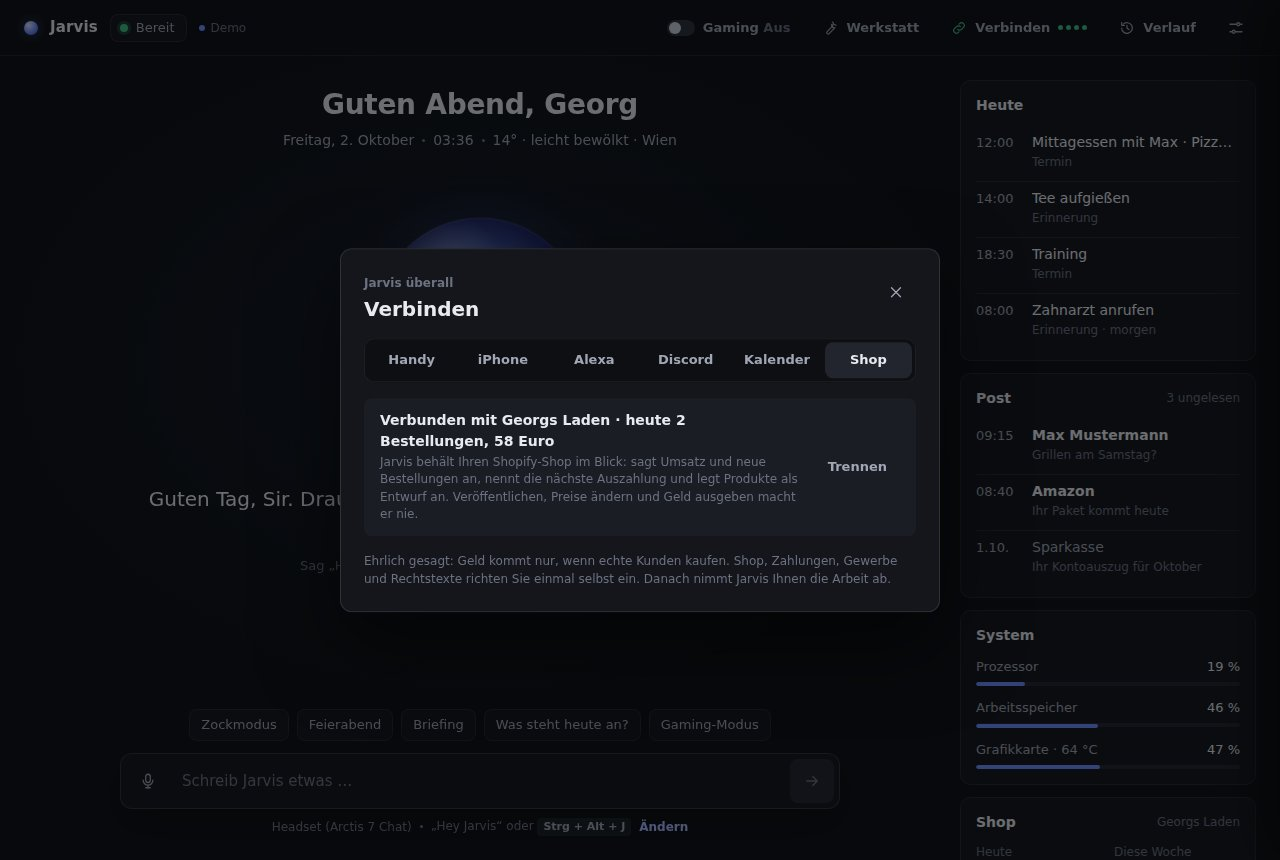
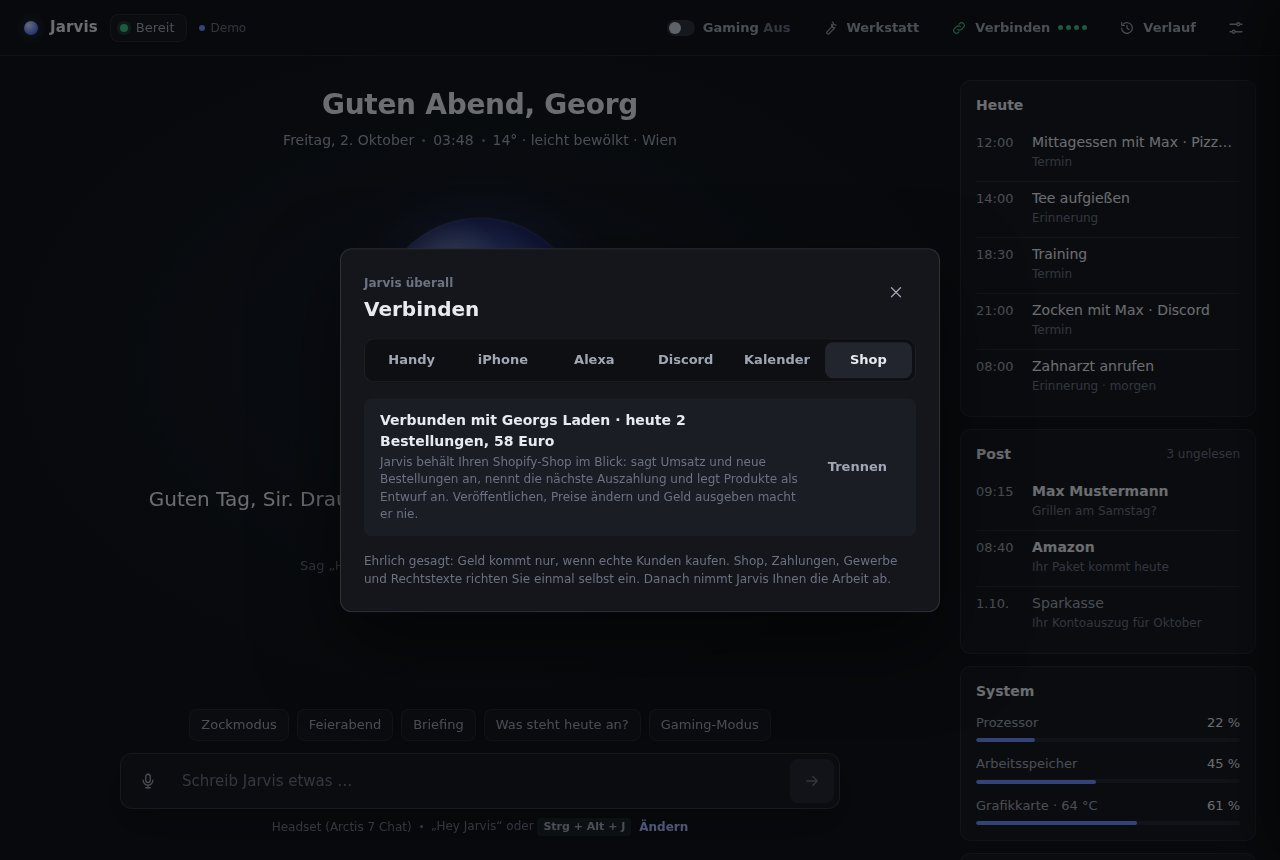
Vorschau: "Heute" zeigt nur, was noch kommt, wie das echte Jarvis
Im Demo-Modus standen abends noch die Termine vom Mittag in der Spalte.
Das echte Fenster zeigt nur Kommendes und morgen, die Vorschau jetzt auch
(dazu ein Abendtermin). Bilder der Anleitung neu.

Claude-Session: https://claude.ai/code/session_01SmtJ1qc8wnYu9sLYM9z56c

diff --git a/jarvis/gui/web/app.js b/jarvis/gui/web/app.js
@@ -1426,12 +1426,18 @@
       },
       new_conversation: () => Promise.resolve(true),
       open_setup: () => Promise.resolve(false),
-      reminders: () => Promise.resolve([
-        { uhr: '12:00', text: 'Mittagessen mit Max · Pizzeria', tag: 'heute', art: 'termin' },
-        { uhr: '14:00', text: 'Tee aufgießen', tag: 'heute', art: 'erinnerung' },
-        { uhr: '18:30', text: 'Training', tag: 'heute', art: 'termin' },
-        { uhr: '08:00', text: 'Zahnarzt anrufen', tag: 'morgen' },
-      ]),
+      // wie gui/app.py: nur, was heute noch kommt, und morgen
+      reminders: () => {
+        const now = new Date();
+        const hm = String(now.getHours()).padStart(2, '0') + ':' + String(now.getMinutes()).padStart(2, '0');
+        return Promise.resolve([
+          { uhr: '12:00', text: 'Mittagessen mit Max · Pizzeria', tag: 'heute', art: 'termin' },
+          { uhr: '14:00', text: 'Tee aufgießen', tag: 'heute', art: 'erinnerung' },
+          { uhr: '18:30', text: 'Training', tag: 'heute', art: 'termin' },
+          { uhr: '21:00', text: 'Zocken mit Max · Discord', tag: 'heute', art: 'termin' },
+          { uhr: '08:00', text: 'Zahnarzt anrufen', tag: 'morgen' },
+        ].filter((r) => r.tag !== 'heute' || r.uhr >= hm));
+      },
       toggle_gaming: () => {
         gaming = !gaming;
         push({ type: 'config', gaming });
